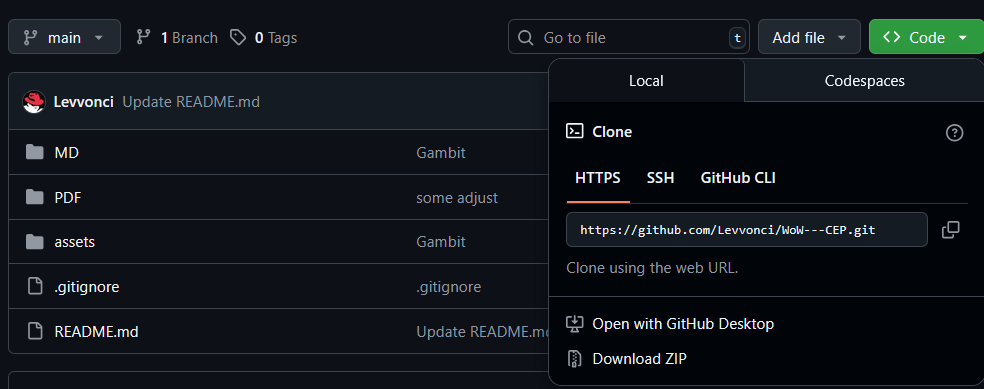
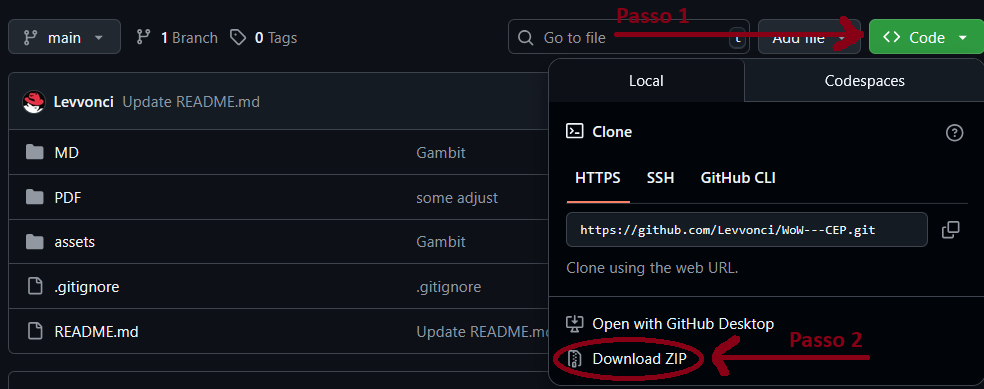
Come_Scaricare

diff --git a/README.md b/README.md
@@ -7,3 +7,5 @@ La cartella **PDF** contiene l'export dei file MarkDown, per una visualizzazione
 
 Per scaricare il tutto vi basterá clickare sul pulsante verde a destra **Code** e clickare su Download Zip.
 
+![](https://github.com/Levvonci/WoW---CEP/blob/main/assets/Come_Scaricare.png)
+
